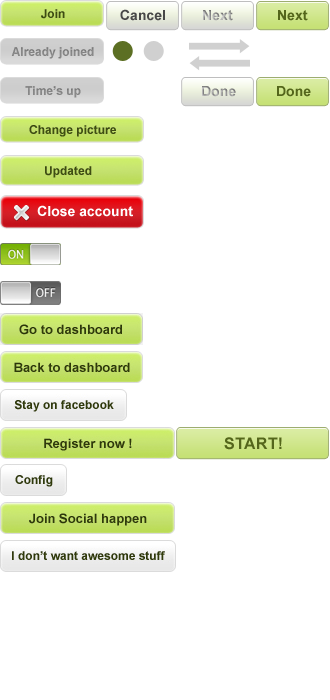
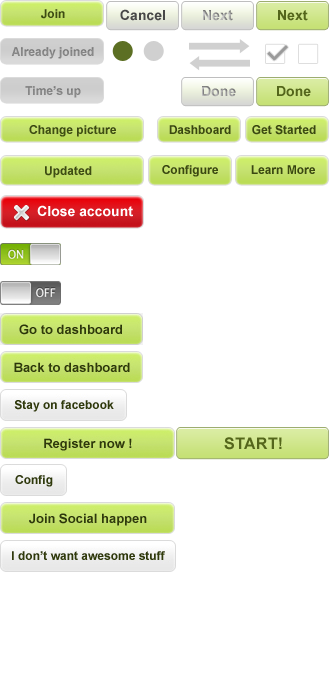
Add get started [TEMP]

Changed region(s): [[0.4242, 0.15, 1.0, 0.27], [0.7879, 0.06, 0.8788, 0.09], [0.9394, 0.06, 0.9697, 0.09]]

diff --git a/assets/css/common/facebook-main.css b/assets/css/common/facebook-main.css
@@ -273,3 +273,34 @@ div.notifications-list ul li div.action {
 .notice.error a { color:#7f2b2b; }
 .notice.warning { background-color:#fff6a8; border-color:#d9ce6e; }
 .notice.warning a { color:#6d6311; }
+
+/* Get started */
+#get-started { font-size: 13px; font-weight: bold; color: #3C3C3C; line-height: 18px; }
+#get-started div.info { background-color:#f8ecd1; padding:0 15px; display:table; }
+#get-started div.info p { margin: 10px 0; }
+#get-started div.info a { color:#63791c; text-decoration:underline; }
+#get-started div.steps { margin-top: 15px; padding:0 15px; position:relative; }
+#get-started div.steps hr { margin-top: 10px; height: 1px; background-color: #E1E1E1; color: #E1E1E1; border: 0; }
+#get-started div.steps .icon-help { display:block; cursor:help; position:absolute; right:10px; top:0; color:#fff; background-color:#575757; text-indent: 6px; overflow: hidden; width:20px; height:20px; -webkit-border-radius: 10px; -moz-border-radius: 10px; border-radius: 10px; }
+#get-started div.steps .tips { display:none; position:relative; left: 20px; top: 15px; z-index:120}
+#get-started div.steps .tips span.arrow { display: block;
+position: absolute;
+right: 15px;
+width: 0;
+height: 0;
+border: solid 10px; }
+#get-started div.steps .tips span.arrow.top {
+border-top-color: transparent !important;
+border-left-color: transparent !important;
+border-right-color: transparent !important;
+border-bottom-color: #63791c;
+top: -20px;
+bottom: none;
+}
+#get-started div.steps .tips div { display:table; position: absolute; right:0; padding:0 10px; background-color:#63791c; -webkit-border-radius: 4px; -moz-border-radius: 4px; border-radius: 4px;}
+#get-started div.steps .tips p { font-size:11px; color:#ebebeb; font-weight: normal; margin: 6px 0; }
+#get-started div.steps ul li { color:#9a9a9a; line-height: 26px;}
+#get-started div.steps ul li a { color:#45bddb;}
+#get-started div.steps ul li a:hover { text-decoration:underline; }
+#get-started div.steps ul li del { }
+#get-started div.note { margin-top: 5px; padding:0 15px; font-size:11px; color:#9a9a9a; font-weight: normal; line-height: 12px;}

diff --git a/assets/js/tab/dashboard.js b/assets/js/tab/dashboard.js
@@ -9,6 +9,19 @@ $(function(){
 		
 		set_loading();
 		$('div#main').load(base_url+'tab/dashboard/'+page_id,function(){
+			
+			if( $('#get-started').length > 0 ) {
+				console.log('have get started');
+				
+				$('div.icon-help').hover(function(){ 
+					$(this).siblings('.tips').show();
+				}, function(){ 
+					$(this).siblings('.tips').hide();
+				});
+				
+				return false;
+			}
+
 			trigger_countdown = function (){
 				$('.campaign-end-time').each(function(){
 					end_time = Date.createFromMysql($(this).text());

diff --git a/application/views/tab/dashboard.php b/application/views/tab/dashboard.php
@@ -4,7 +4,7 @@
 		<div class="data">
 			<h1><?php echo $page['page_name'];?></h1>
 			<p><?php echo $page['page_detail'];?></p>
-			<!--
+			
 			<ul>
 			  <li class="fav"><a href="#">Add Favorite</a></li>
 			  <li class="member"><a href="#"><?php echo issetor($page_user_count,'-');?></a></li>
@@ -12,10 +12,56 @@
 			  <li class="point"><a href="#"><?php echo issetor($page_point_count,'-');?></a></li>
 			  <li class="setting"><a href="#"><span>setting</span></a></li>
 			</ul>
-			-->
+			
 		</div>
     </div>
 	
+	<?php if($get_started) { ?>
+	<div id="get-started">
+		<div class="tab-head">
+        <h2>Get Started !</h2>
+		</div>
+		<div class="info">
+			<p>Hello Admin! You are a few minutes away from having a powerful social membership system that integrate gaming mechanic right onto your Facebook page ...</p>
+			<p>You have installed SocialHappen to your Facebook Page. Now you can configure the system.</p>
+			<p style="text-align:right"><a>Learn more</a></p>
+		</div>
+		<div class="steps">
+			<h3>Configure Member System</h3>
+			<div class="icon-help">?</div>
+			<div class="tips"><div><span class="arrow top"></span><p>SocialHappen alllows you to have your own in-page Membership System which you can access all your members' profiles in one place. Every Apps you installed from SocialHappen share the same registration system. Configure your own sign up form as you wish !</p></div></div>
+			<ul>
+				<li><a>Configure Your Own Sign-Up Form</a></li>
+				<li><a>View How Your Members See The Sign-Up Form</a></li>
+			</ul>
+			<hr />
+		</div>
+		<div class="steps">
+			<h3>Install First Application To Your Page</h3>
+			<div class="icon-help">?</div>
+			<div class="tips"><div><span class="arrow top"></span><p>We design a platform that allows you to select what matches your business objectives. Each App has different purpose, so you can choose to install the one that fits. For example, Quiz App is for education and engagement purpose. Youtube App is for broadcasting your video channel on Facebook. Choose your first App from Application List.</p></div></div>
+			<ul>
+				<li><a>Go To Application List</a></li>
+				<li><a>See Where I Can Manage My Applications</a></li>
+			</ul>
+			<hr />
+		</div>
+		<div class="steps">
+			<h3>Take A Tour</h3>
+			<div class="icon-help">?</div>
+			<div class="tips"><div><span class="arrow top"></span><p>See what else you can do with SocialHappen.</p></div></div>
+			<ul>
+				<li><del>Learn How to Manage Your Page and Applications</del></li>
+				<li><a>Learn How Your Members See SocialHappen Tab</a></li>
+				<li><a>Learn How Your Members Interact With Your Page</a></li>
+				<li><a>Learn How to View Members' Profiles and Their Activities</a></li>
+				<li><a>Learn How to Manage Campaign</a></li>
+			</ul>
+			<hr />
+		</div>
+		<div class="note">Note: The Facebook account you are using right now will be the administrator account that you can manage your applications, members, and campaigns.</div>
+    </div>
+	<?php } else {?>
     <div>
       <div class="tab-head">
         <h2>Application and Campaign</h2>
@@ -31,6 +77,7 @@
       <div class="list_app-camp"></div>
       <div class="pagination-app-campaign strip"></div>
     </div>
+	
     <div>
       <div class="tab-head">
         <h2>Recent Activity</h2>
@@ -47,4 +94,6 @@
       <div class="list_resent-activity"></div>
       <div class="pagination-activity strip"></div>
     </div>
+	<?php } ?>
+	
   </div>

diff --git a/application/controllers/tab.php b/application/controllers/tab.php
@@ -138,13 +138,15 @@ class Tab extends CI_Controller {
 		$company = $this->companies->get_company_profile_by_page_id($page_id);
 		$this->load->model('user_companies_model','user_companies');
 		$is_admin = $this->user_companies->is_company_admin($user_id, $company['company_id']);
+		$get_started = false;//need logic here
 		
 		if($page){
 			
 			$data = array(
 							'page' => $page,
 							'is_liked' => $this->page['liked'],
-							'is_admin' => $is_admin
+							'is_admin' => $is_admin,
+							'get_started' => $get_started
 			);
 			$this->load->view("tab/dashboard",$data);
 		
